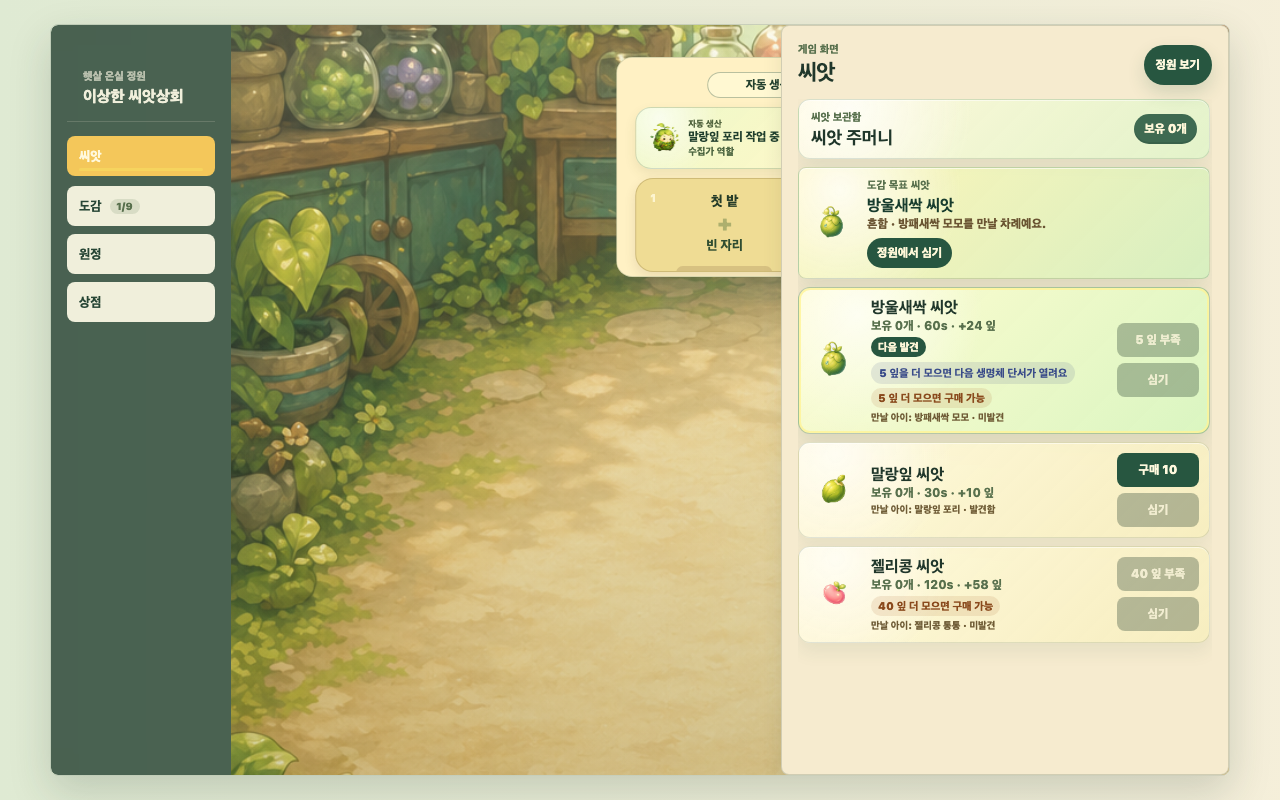
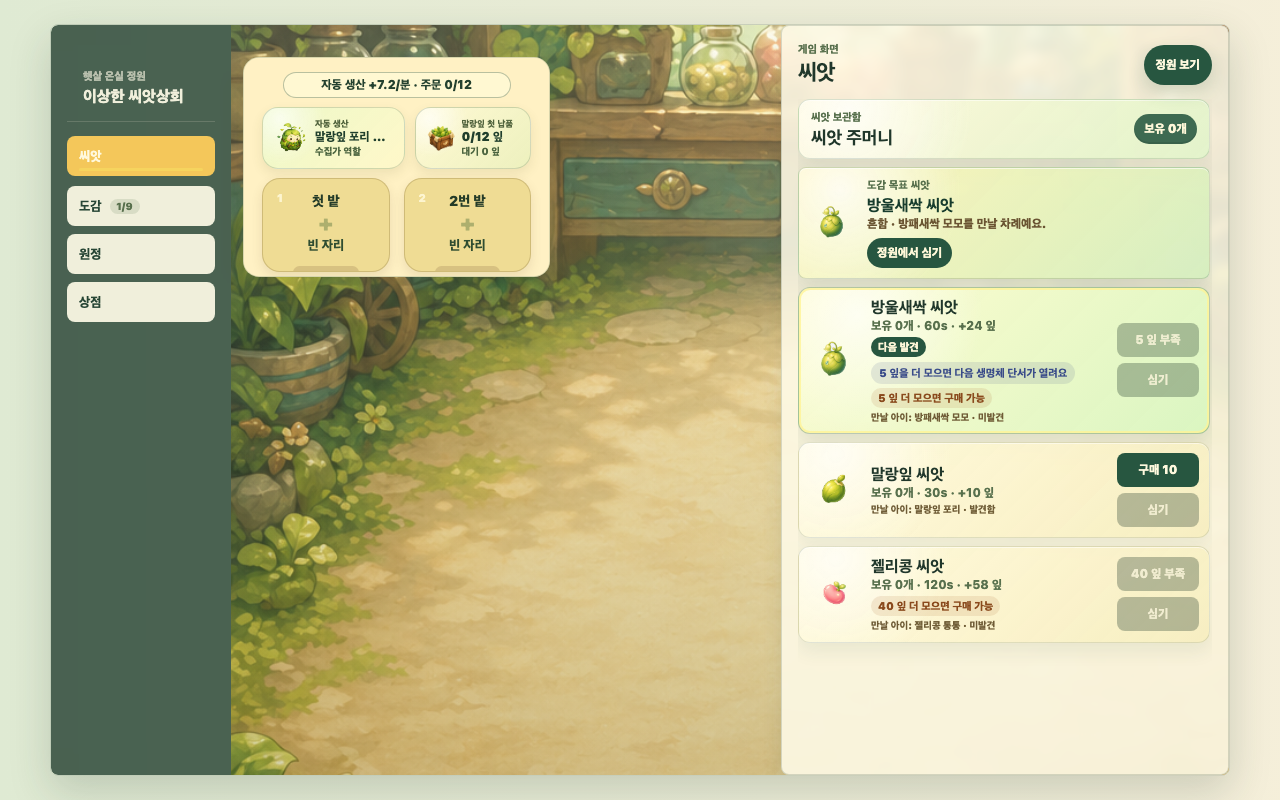
PR5 hotfix — dock 확장 시 plot card 가림 버그 수정 + art-share-gate 강화
사용자 critique (2026-05-05 오후 5:45 스크린샷): seeds 탭 활성 시
dev-panel이 plot card를 덮어버려 사용자가 plot을 못 봄. PR4까지의
art-share-gate 9/9 PASS는 incomplete measurement였음 — dev-panel과
plot 간 overlap을 측정 안 함.

CSS @media (min-width: 1280px):
- dock 확장 시 garden-panel 좌측 이동 + 폭 축소
  (left: --space-3, width: clamp(240, 24vw, 340), max-height: clamp(240, 38vh, 360))
- dev-panel 확장 시 alpha-aware (rgba 0.86 + backdrop-blur 6px)
  → art가 panel 아래에서도 부분 비쳐 보임

art-share-gate 강화:
- NEW test: plot card NOT covered by dev-panel/dock when seeds tab active
- 3 viewport에서 garden-panel ↔ dev-panel intersection ≤ 10% 강제
- 12/12 PASS (3 viewport × 4 test)

Evidence package re-capture: garden-loaded + seeds-loaded 6 screenshots
새 상태 반영. README에 self-QA 회귀 honest admission 추가.

Cycle 1 self-validation 실패 mechanism의 재발 패턴 인정 — 측정 있어도
gap 존재. screenshot review가 enforcement gate의 final guard라는
feedback_implementation_critique_gate 메모리 학습 재확인.

Changed region(s): [[0.1875, 0.0625, 0.4375, 0.3438], [0.4688, 0.0625, 0.625, 0.3438]]

diff --git a/tests/visual/desktop-art-share.spec.ts b/tests/visual/desktop-art-share.spec.ts
@@ -100,4 +100,36 @@ for (const viewport of DESKTOP_VIEWPORTS) {
     const stageBg = await page.locator(".garden-stage").evaluate((element) => window.getComputedStyle(element).backgroundColor);
     expect(dockBg).not.toBe(stageBg);
   });
+
+  test(`plot card NOT covered by dev-panel/dock when seeds tab active at ${viewport.width}x${viewport.height}`, async ({ page }) => {
+    await page.setViewportSize(viewport);
+    await page.goto("/?qaHarvestReveal=1");
+    const recordBtn = page.getByRole("button", { name: "도감에 기록하기" });
+    if ((await recordBtn.count()) > 0) {
+      await recordBtn.click();
+    }
+    await page.waitForTimeout(800);
+    const seedsTab = page.locator(".bottom-tabs.is-desktop-rail button", { hasText: "씨앗" }).first();
+    if ((await seedsTab.count()) === 0) return;
+    await seedsTab.click();
+    await page.waitForTimeout(800);
+
+    const gardenPanel = page.locator(".garden-panel").first();
+    const devPanel = page.locator(".dev-panel").first();
+    if ((await gardenPanel.count()) === 0 || (await devPanel.count()) === 0) return;
+
+    const gardenRect = await gardenPanel.boundingBox();
+    const devRect = await devPanel.boundingBox();
+    if (!gardenRect || !devRect) return;
+
+    const overlapArea = intersectionArea(gardenRect, devRect);
+    const gardenArea = gardenRect.width * gardenRect.height;
+    const overlapRatio = gardenArea > 0 ? overlapArea / gardenArea : 0;
+    if (overlapRatio > 0.1) {
+      throw new Error(
+        `When seeds tab is active, dev-panel covers ${(overlapRatio * 100).toFixed(1)}% of garden-panel(plot) at ${viewport.width}x${viewport.height}. ` +
+          `User cannot see plot. Reposition garden-panel or make dev-panel narrower/transparent.`
+      );
+    }
+  });
 }

diff --git a/src/styles.css b/src/styles.css
@@ -7935,3 +7935,24 @@ h1 {
     top: var(--spacing-2xl);
   }
 }
+
+/* stage-art-first Cycle A HOTFIX — dock 확장 시 dev-panel이 garden-panel(plot)을 가리던 버그 */
+@media (min-width: 1280px) {
+  /* dock 확장 시 plot card는 stage 좌측으로 이동 + 폭 축소, dev-panel과 정면 충돌 회피.
+     garden-stage column이 좁아지므로(col-span-7→col-span-5) garden-panel도 비례 축소. */
+  .desktop-shell[data-dock-expanded="true"] .garden-panel {
+    left: var(--space-3);
+    right: auto;
+    transform: none;
+    width: clamp(240px, 24vw, 340px);
+    max-height: clamp(240px, 38vh, 360px);
+  }
+
+  /* dev-panel을 alpha-aware로 — art가 panel 아래에서도 부분 비쳐 보이게.
+     기존 var(--color-surface-dock) 불투명 배경 → semi-transparent로 hierarchy 강화 +
+     사용자가 지적한 "패널이 art를 다 덮는" 패턴 부분 완화. 본격 개선은 HUD frame asset 도입(별도 axis). */
+  .desktop-shell[data-dock-expanded="true"] .dev-panel {
+    background: rgba(255, 251, 233, 0.86);
+    backdrop-filter: blur(6px);
+  }
+}

diff --git a/reports/visual/cycle-A-evidence-20260505/README.md b/reports/visual/cycle-A-evidence-20260505/README.md
@@ -6,15 +6,28 @@
 - Spec: `reports/deliberation/stage-art-first-restructure/spec.md`
 - 사용자 명시 approval 대기 — Director 자체 Cycle close 금지 (spec § Decisions §4)
 
-## art-share-gate 자동 측정 결과
+## art-share-gate 자동 측정 결과 (PR5 hotfix 후)
 
-| Test | Cycle 1 종료 시 | Cycle A PR4 후 |
-|---|---|---|
-| stage cream panel ratio ≤ 0.25 (3 viewport) | FAIL (~71%) | **PASS** (~22%) |
-| dock background contrast (3 viewport) | FAIL (cream=cream) | **PASS** (#f6ebcf vs stage) |
-| rail button height ≤ 44px (3 viewport) | FAIL (56px+) | **PASS** (40px) |
+**중요한 self-QA 회귀 인정**: PR4까지 9/9 PASS는 **incomplete measurement**였음. 사용자 critique으로 발견된 새 패턴(seeds 탭 활성 시 dev-panel이 plot card를 덮음)을 **hotfix로 수정 + art-share-gate에 새 테스트 추가**.
 
-**9/9 PASS** — spec § Acceptance Criteria Layer 1·2 모든 자동 측정 통과 (PR #398 art-share-gate green).
+| Test | Cycle 1 종료 시 | Cycle A PR4 (incomplete) | Cycle A hotfix |
+|---|---|---|---|
+| stage cream panel ratio ≤ 0.25 (3 viewport) | FAIL (~71%) | **PASS** (~22%) | PASS 유지 |
+| dock background contrast (3 viewport) | FAIL (cream=cream) | **PASS** (#f6ebcf vs stage) | PASS 유지 |
+| rail button height ≤ 44px (3 viewport) | FAIL (56px+) | **PASS** (40px) | PASS 유지 |
+| **NEW**: plot card NOT covered by dev-panel (3 viewport, seeds 탭) | (no test) | (no test, **bug 미감지**) | **PASS** |
+
+**12/12 PASS** — measurement gap 인정 + 보강.
+
+### Self-QA 회귀의 honest admission
+
+PR4까지 자동 측정은 모두 통과했지만 사용자가 seeds 탭 스크린샷을 보여줬을 때 plot card가 dev-panel에 덮인 상태였음. art-share-gate 원래 4 selector(.garden-panel/.starter-panel/.action-surface/.garden-action-surface)만 측정했고 dev-panel과 plot card 간 overlap은 측정 안 함. **이건 Cycle 1 self-validation 실패 mechanism의 재발 패턴**:
+
+- Cycle 1: spec promise 있었으나 측정 0
+- Cycle A 초기: 측정 있었으나 measurement gap 존재
+- Cycle A hotfix: gap 메우는 새 테스트 추가 + 실제 visual fix
+
+→ `feedback_implementation_critique_gate.md` 메모리의 "측정 있어도 갭 존재 가능, screenshot review 필수" 학습 본 axis가 재확인.
 
 ## 사용자 critique 5종 항목별 해결 여부 표
 
